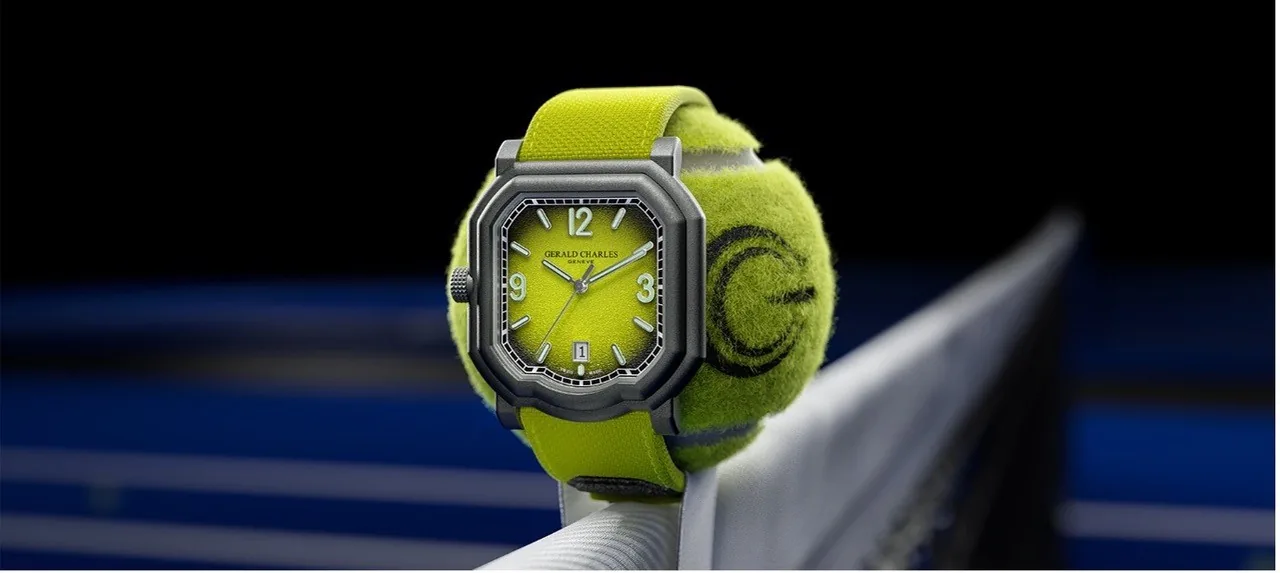
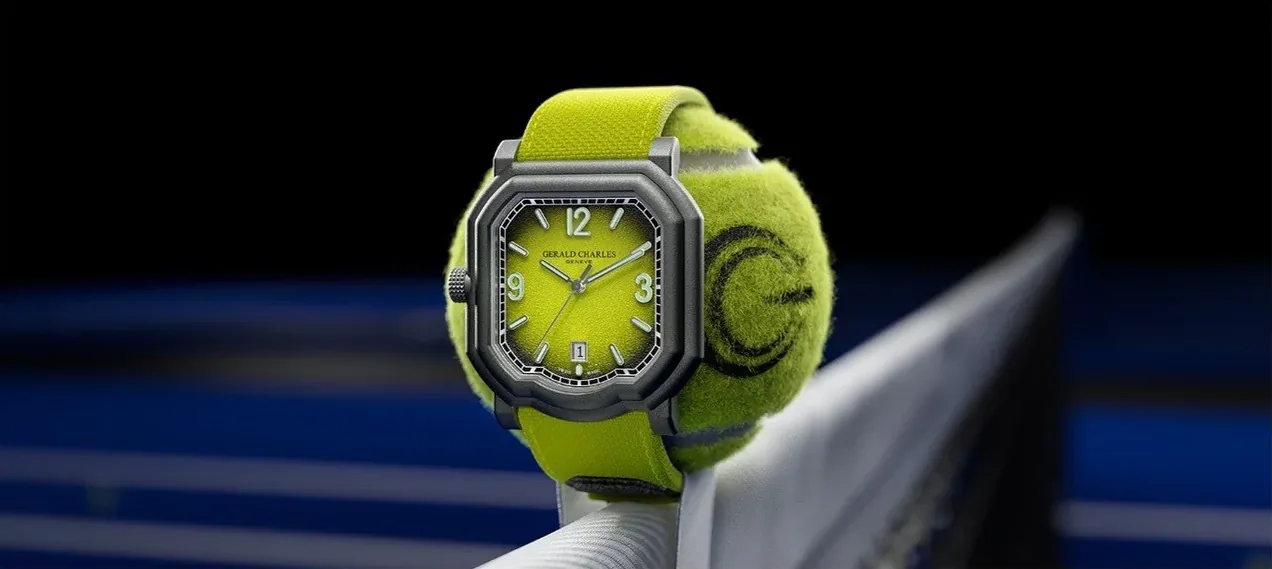
De Minaur campaigns: add Wilson rooftop photo, trim white edges off the Gerald Charles watch image
Claude-Session: https://claude.ai/code/session_01TEbQqfPMx3kNSTATLdPhjv

diff --git a/index.html b/index.html
@@ -2257,7 +2257,7 @@ const PROFILES = [
     partners:["Wilson","SAJ","SAP","Gerald Charles","Pepperstone","La Roche-Posay","Weet-Bix"],
     social:{ Instagram:554*K, TikTok:57*K, X:74*K },
     quote:["I've been watching Alex for a while, and his work ethic and dedication to the game are impressive. He has a great attitude and the kind of tenacity that can take him far.","Pat Rafter"],
-    campaign:[["deminaur-c1.webp",1406,2000],["deminaur-c2.webp",1024,683],["deminaur-c3.webp",960,1194],["deminaur-c4.webp",1920,1740],["deminaur-c5.webp",1280,573]] },
+    campaign:[["deminaur-c1.webp",1406,2000],["deminaur-c6.webp",1920,1334],["deminaur-c2.webp",1024,683],["deminaur-c3.webp",960,1194],["deminaur-c4.webp",1920,1740],["deminaur-c5.webp",1272,569]] },
   { id:"rublev", age:28, nat:"Russian", plays:BH, high:5,
     titles:[{ k:"ATP titles", n:18, p:[["Masters 1000",2],["500",6],["250",10]] }, { k:"Team titles", team:1, n:4, p:[["Davis Cup",1],["Laver Cup",1],["ATP Cup",1],["Tokyo 2020",1]] }],
     partners:["waterdrop","K-Swiss","HEAD","Vanguart","PRYPCO Blocks"],
